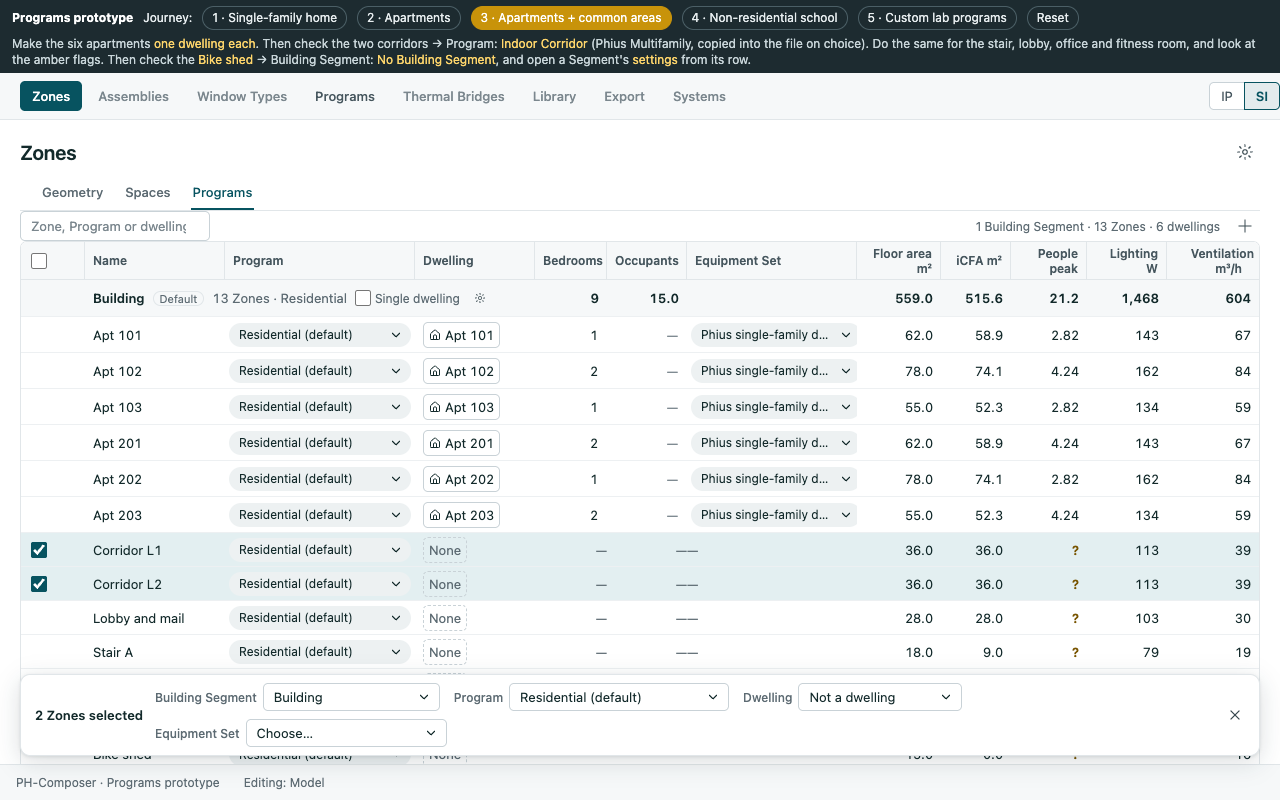
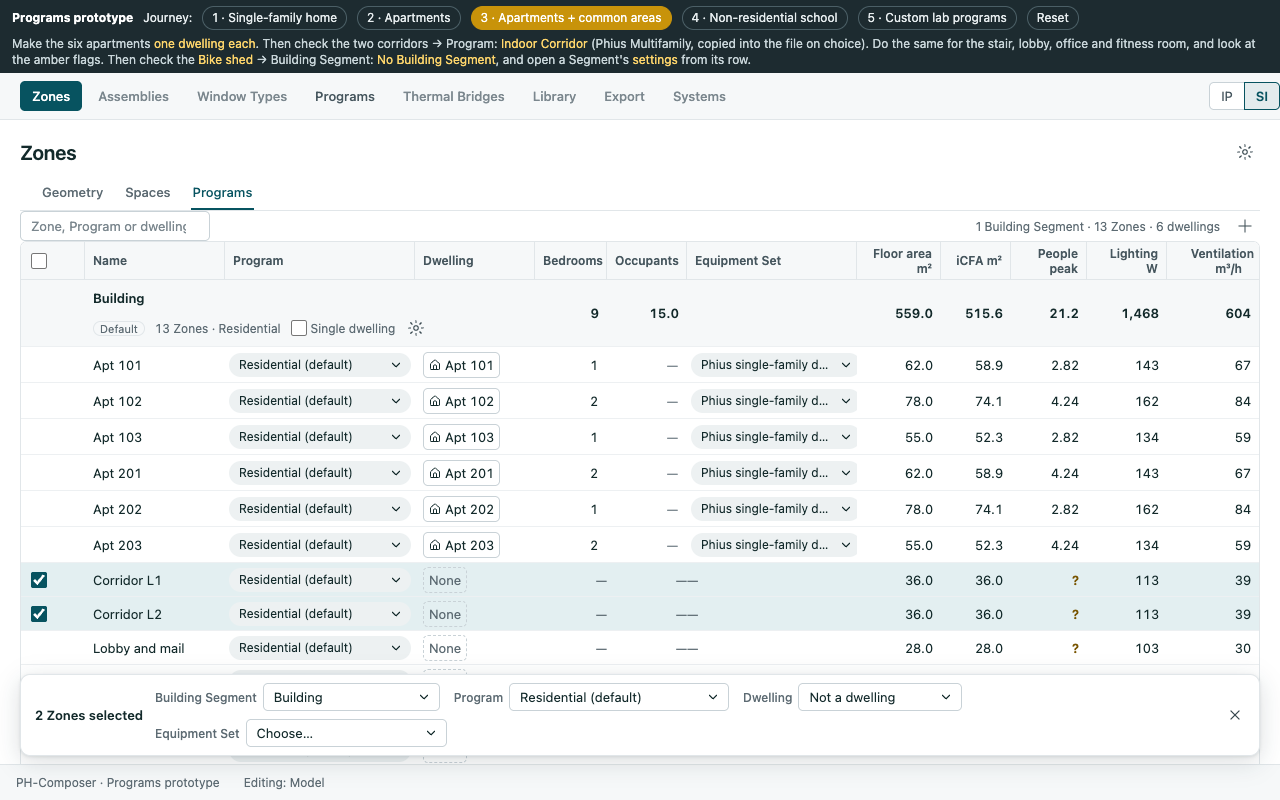
Building Segments: two-line Segment heading; Attached zone offer accepted
The name gets its own line and truncates with a tooltip; the Default tag,
Zone count and category, Single dwelling and settings move to a second
line. Moving a Zone out of every Segment offers to make it the Attached
zone for Faces it shares with exported Zones.

diff --git a/planning/features/phase-04a-program/mockups/programs.html b/planning/features/phase-04a-program/mockups/programs.html
@@ -128,7 +128,13 @@
   .zp-seg-count { font-weight:400; color:var(--muted); }
   .zp-seg-single { display:inline-flex; align-items:center; gap:4px; font-weight:400; font-size:12px; white-space:nowrap; }
   .zp-seg-single input { margin:0; }
-  .zp-seg-tools { display:inline-flex; gap:2px; margin-left:auto; }
+  .zp-seg-head { max-width:430px; }
+  .zp-seg-line1 { display:flex; align-items:center; gap:6px; min-height:24px; }
+  .zp-seg-title { min-width:0; overflow:hidden; text-overflow:ellipsis; white-space:nowrap; }
+  .zp-seg-line2 { display:flex; align-items:center; gap:10px; min-height:22px; font-weight:400; font-size:12px; color:var(--muted); }
+  .zp-seg-line2 .zp-seg-count { font-size:12px; }
+  .zp-seg-gear { width:22px; height:22px; margin-left:-4px; }
+  .zp-seg-tools { display:inline-flex; gap:2px; margin-left:auto; flex:none; }
   .zp-seg-tools .phc-icon-button { width:24px; height:24px; }
   .zp-seg-tools .zp-hover { visibility:hidden; }
   .zp-seg:hover .zp-seg-tools .zp-hover, .zp-seg:focus-within .zp-seg-tools .zp-hover { visibility:visible; }
@@ -428,18 +434,21 @@
     if (S.bubble) h += S.bubble.html;
     return h;
   }
-  // The Building Segment heading row: name, tags, findings, then Settings (always shown) and Rename and Delete (on hover).
+  // The Building Segment heading: the name alone on the first line (Rename and Delete on hover), then a
+  // second line with the Default tag, Zone count and category, Single dwelling and the settings icon.
   function segHead(g, n, sf) {
     var name = S.renaming === g.id ? '<input class="zp-seg-rename" data-act="seg-rename" data-v="' + g.id + '" value="' + esc(g.name) + '" aria-label="Building Segment name">' : esc(g.name);
     var only = S.segments.length === 1;
     var del = only ? '<span class="zp-hover" data-tip="A model keeps at least one Building Segment."><button type="button" class="phc-icon-button assembly-tool-icon" disabled aria-label="Delete ' + esc(g.name) + '">' + svg("del", 16) + '</button></span>'
       : iconBtn("del", "Delete " + g.name, "seg-delete", ' data-v="' + g.id + '"').replace('class="', 'class="zp-hover ');
-    return '<div class="zp-seg-name">' + name +
+    return '<div class="zp-seg-head"><div class="zp-seg-line1">' +
+      (S.renaming === g.id ? name : '<span class="zp-seg-title" data-tip="' + esc(g.name) + '">' + name + '</span>') + (sf.length ? flag(sf.join(" ")) : "") +
+      '<span class="zp-seg-tools">' + iconBtn("pencil", "Rename " + g.name, "seg-rename-start", ' data-v="' + g.id + '"').replace('class="', 'class="zp-hover ') + del + '</span></div>' +
+      '<div class="zp-seg-line2">' +
       (g.id === S.defaultSeg ? '<span class="zp-seg-tag" data-tip="New Zones join this Building Segment. Change it in Settings.">Default</span>' : "") +
-      '<span class="zp-seg-count">' + n + ' Zone' + (n === 1 ? "" : "s") + ' · ' + (g.category === "res" ? "Residential" : "Non-residential") + '</span>' + (sf.length ? flag(sf.join(" ")) : "") +
+      '<span class="zp-seg-count">' + n + ' Zone' + (n === 1 ? "" : "s") + ' · ' + (g.category === "res" ? "Residential" : "Non-residential") + '</span>' +
       '<label class="zp-seg-single" data-tip="' + esc(SINGLE_TIP) + '"><input type="checkbox" data-act="single" data-v="' + g.id + '"' + (g.single ? " checked" : "") + '>Single dwelling</label>' +
-      '<span class="zp-seg-tools">' + iconBtn("settings", "Building Segment settings", "seg-settings", ' data-v="' + g.id + '"') +
-      iconBtn("pencil", "Rename " + g.name, "seg-rename-start", ' data-v="' + g.id + '"').replace('class="', 'class="zp-hover ') + del + '</span></div>';
+      iconBtn("settings", "Building Segment settings", "seg-settings", ' data-v="' + g.id + '"').replace('class="', 'class="zp-seg-gear ') + '</div></div>';
   }
   var SINGLE_TIP = "Every Zone in this Building Segment is one dwelling with the residential default Program. Bedrooms, occupants and the Equipment Set are entered once, on this row. Uncheck to assign per Zone; everything it set stays.";
   // Zones a check can select: those in a Single dwelling Segment are locked.
@@ -966,6 +975,7 @@
     if (st === "customsched") { S.ptab = "schedules"; S.selSchedule = prog(S.selProgram).people.sched; }
     if (st === "pdefault") { S.tab = "programs"; S.ptab = "programs"; S.selProgram = "pgm_default"; }
     if (st === "sets") { S.tab = "programs"; S.ptab = "sets"; }
+    if (st === "longname") { S.segments[0].name = "Elementary School, Building A (classrooms, gym and canteen)"; }
     if (st === "moveshed") { S.zones.forEach(function (z) { if (z.name === "Bike shed") z.seg = null; }); }
     if (st === "checkshed") { S.zones.forEach(function (z) { if (z.name === "Bike shed") S.checked[z.id] = 1; }); }
     if (st === "newseg") { newSegment(); }

diff --git a/planning/features/phase-04a-program/mockups/README.md b/planning/features/phase-04a-program/mockups/README.md
@@ -19,7 +19,7 @@ server. The dark strip at the top picks a journey and says what to try; Reset re
 | 2. Apartments, one Zone each | Check every Zone, Dwelling: One dwelling each. Then check Single dwelling to see its confirmation | `j2-checked` (`journey=2&do=checkall`), `j2-dwellings` (`journey=2&do=each,beds`), `j2-single-confirm` (`journey=2&do=each,beds,trysingle`) |
 | 3. Apartments plus corridors, lobby, stair, office, gym | Apartments as in 2; pick Phius Multifamily Programs for the rest from the Program choice | `j3-corridors-checked` (`journey=3&do=each,beds,checkcorr`), `j3-common-areas` and `-420` (`journey=3&do=each,beds,common`) |
 | Building Segments (journey 3, then 1) | Check the Bike shed, Building Segment: No Building Segment or New Building Segment. Hover a Segment row for Rename and Delete; its settings icon opens the dialog | `j3-no-segment` (`…,common,moveshed`), `j3-move-segment` (`…,common,checkshed`), `j3-new-segment` (`…,common,newseg`), `j3-segment-settings` (`…,common,segsettings`), `j3-delete-segment` (`…,common,newseg,trydelete`), `j1-segment-settings` (`journey=1&do=house3,segsettings`), `j1-adu` (`journey=1&do=house3,adu`) |
-| 4. Non-residential school | Unassigned Zones are flagged; assign from Phius Non-Residential, or browse the library sidebar | `j4-start` (`journey=4`), `j4-assigned` (`journey=4&do=school`), `j4-library` (`journey=4&do=school,libnr`) |
+| 4. Non-residential school | Unassigned Zones are flagged; assign from Phius Non-Residential, or browse the library sidebar | `j4-start` (`journey=4`), `j4-assigned` (`journey=4&do=school`), `j4-library` (`journey=4&do=school,libnr`), `j4-long-name` (`journey=4&do=school,longname`) |
 | 5. Custom lab programs | Programs tab, + on the rail, set loads, open a schedule chip | `j5-program` and `-420` (`journey=5&do=custom`), `j5-schedule` (`journey=5&do=custom,customsched`) |
 | Equipment Sets | Programs tab, Equipment Sets | `equipment-sets` (`journey=1&do=sets`) |
 
@@ -45,8 +45,10 @@ server. The dark strip at the top picks a journey and says what to try; Reset re
   that Segment. Moving a Zone into a Single dwelling Segment joins its dwelling. `j1-adu` shows a
   house and an ADU as two single-dwelling Segments.
 - **Building Segments** ([plan](../../unscheduled/building-segments/README.md), BS-1 to BS-6 answered). The
-  heading row holds the name, a Default tag, the Zone count and category, a findings flag and a
-  settings icon; Rename and Delete appear on hover, and Delete is disabled on the last Segment.
+  heading takes two lines: the name alone on the first (a long name truncates, full name in its
+  tooltip, `j4-long-name`), with a findings flag and, on hover, Rename and Delete (Delete disabled
+  on the last Segment); then the Default tag, Zone count and category, Single dwelling and the
+  settings icon.
   Airtightness, category and certification moved into the Building Segment settings dialog. The
   selection bar moves checked Zones to a Segment, a new one (named, then renamed in place) or No
   Building Segment, a muted last group left out of export. Deleting a used Segment asks where its

diff --git a/planning/features/unscheduled/building-segments/README.md b/planning/features/unscheduled/building-segments/README.md
@@ -153,8 +153,8 @@ again while building:
 - The WUFI writer writes `KindAttachedZone` and `TemperatureReductionFactorUserDefined`. The METr
   zone writer writes the zone type; no reduction factor field turned up there. To verify.
 
-Claude's proposal, to confirm: moving a Zone out of every Segment offers to make it the Attached
-zone for the Faces it shares with exported Zones, so the user does not assign them one by one.
+Accepted 2026-11-15: moving a Zone out of every Segment offers to make it the Attached zone for
+the Faces it shares with exported Zones, so the user does not assign them one by one.
 
 ## Answers (Ed, 2026-11-15)
 
@@ -165,4 +165,4 @@ zone for the Faces it shares with exported Zones, so the user does not assign th
 | BS-3 | **Single dwelling is a Building Segment attribute and control** (above). Supersedes Q4a-26's one-Segment rule |
 | BS-4 | **Drop the Manage Building Segments dialog.** Colour moves into settings; merging is Delete with "move its Zones to" |
 | BS-5 | **Before Phase 4a's implementation**, as its own PR stage |
-| BS-6 | **An Attached zone** where one is assigned, else a refusal naming the Face. Review how `PhAdditionalZone` flows through PHX while building (above) |
+| BS-6 | **An Attached zone** where one is assigned, else a refusal naming the Face. Moving a Zone out of every Segment offers to make it that Attached zone. Review how `PhAdditionalZone` flows through PHX while building (above) |
